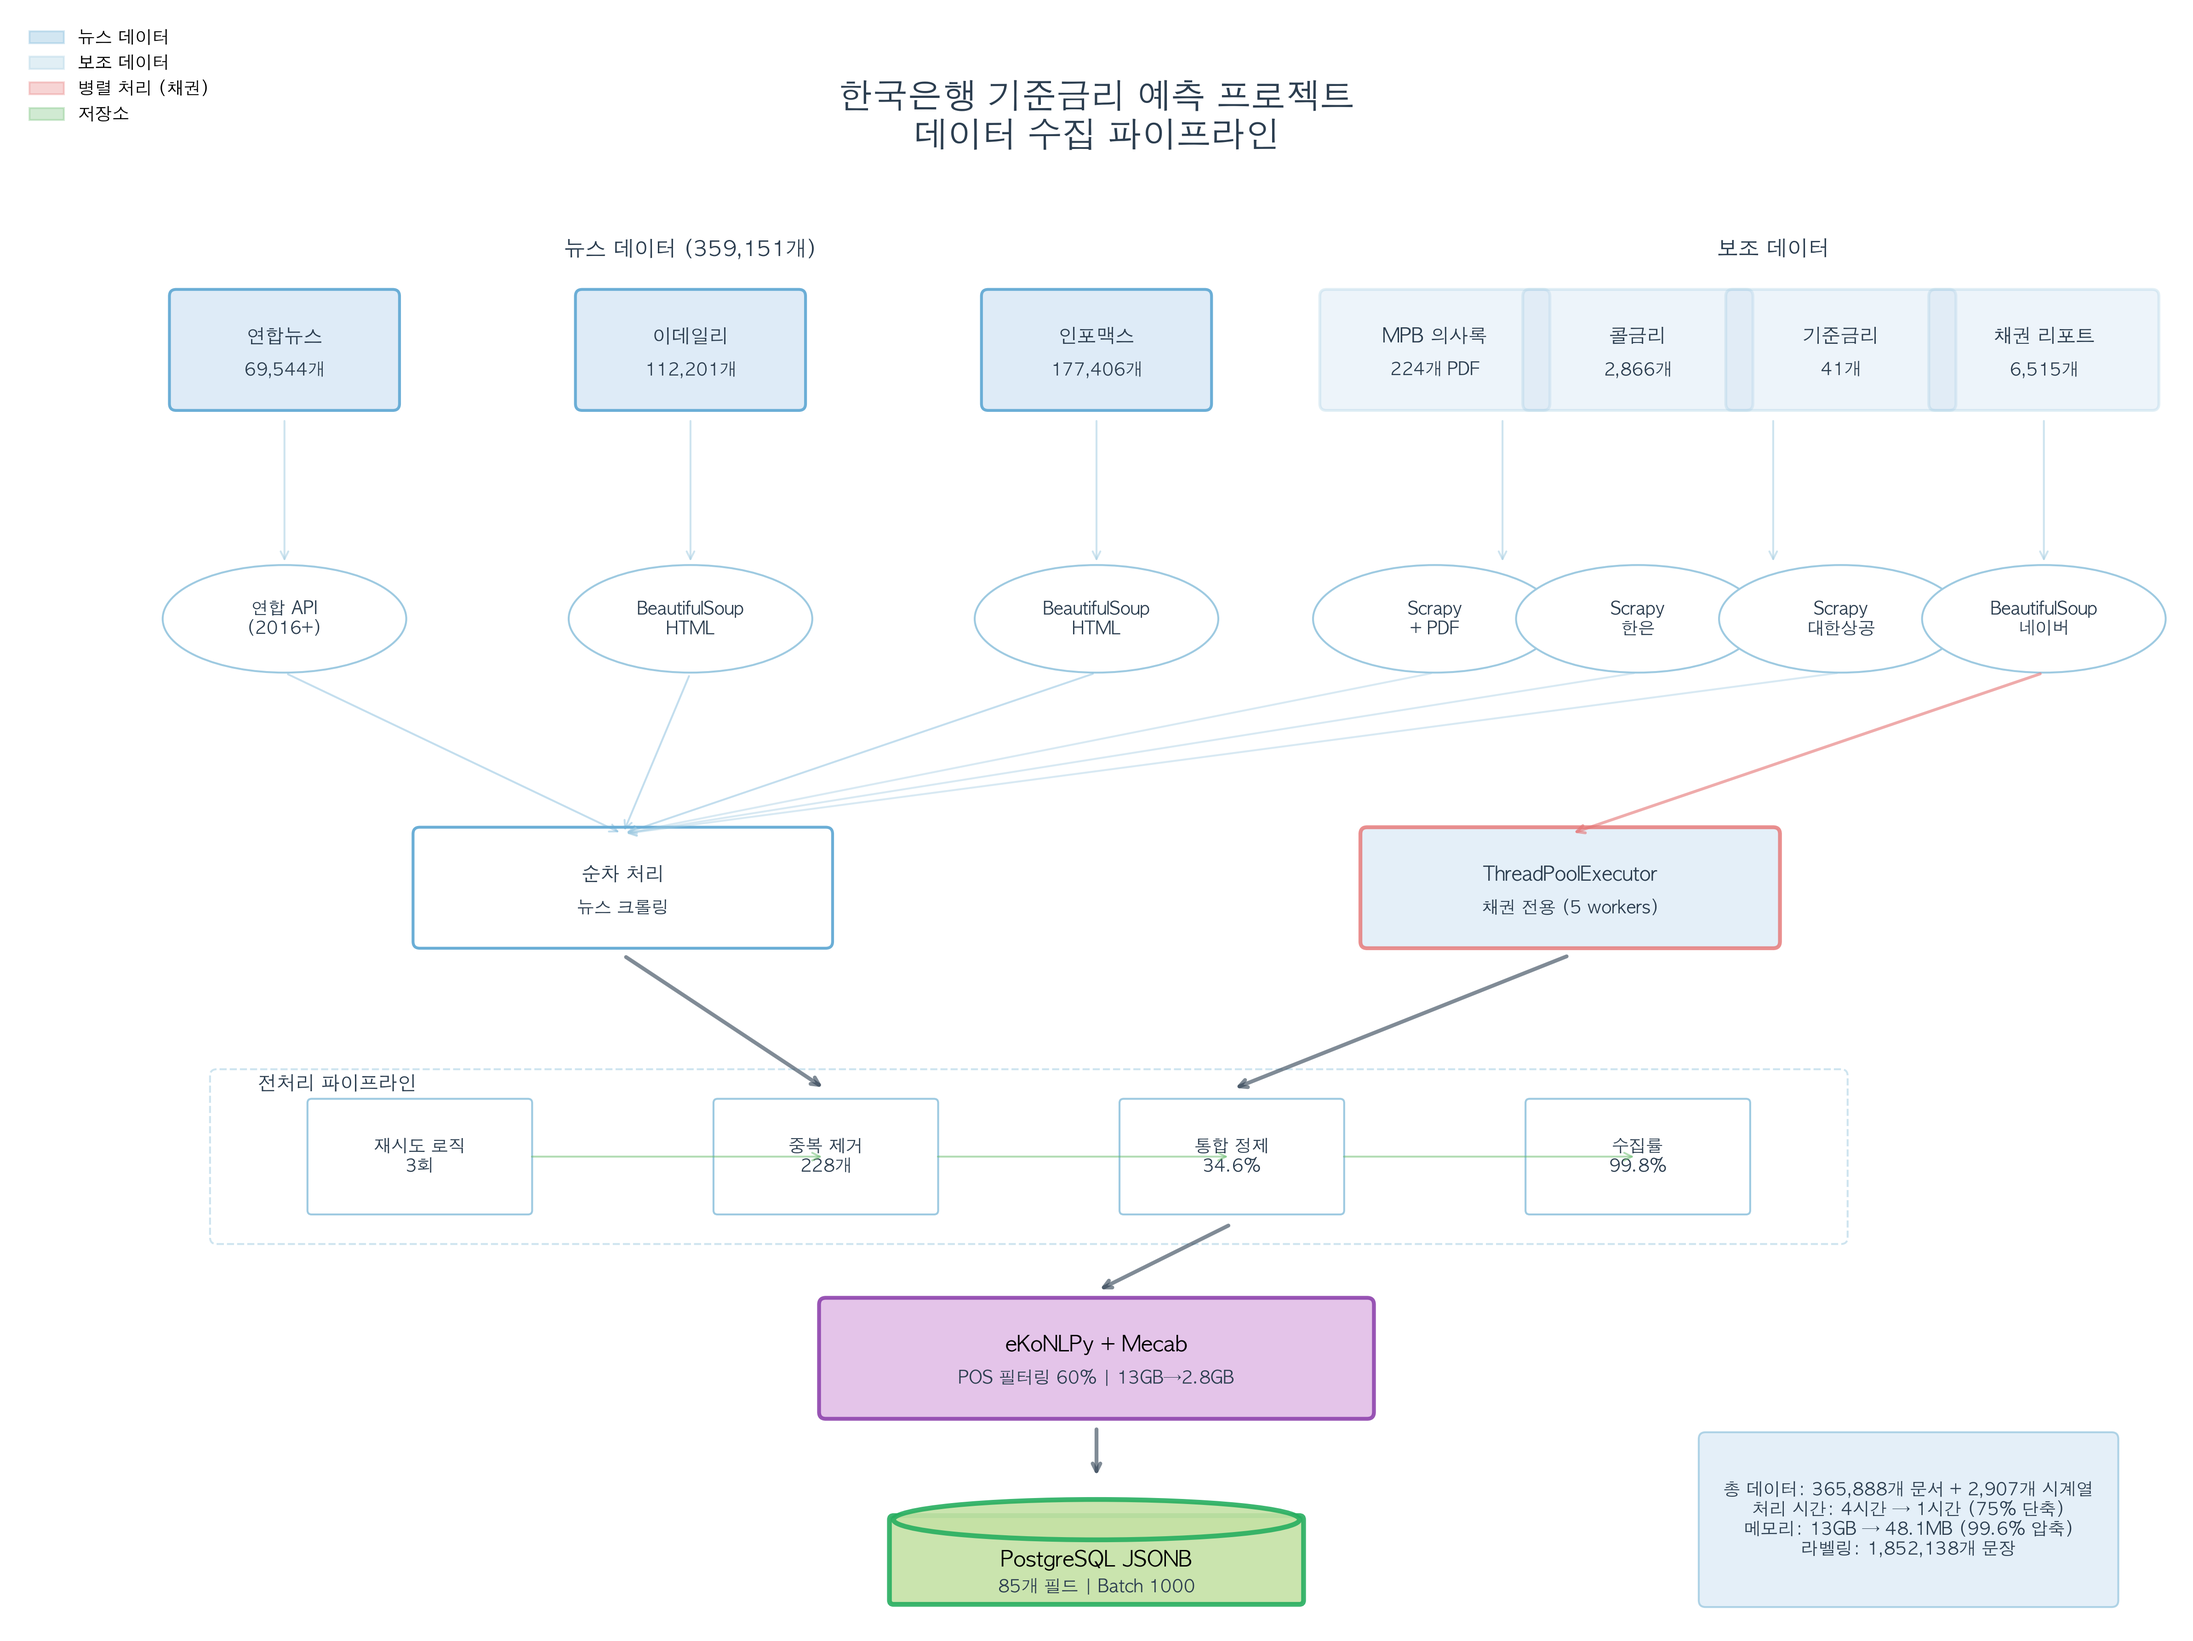
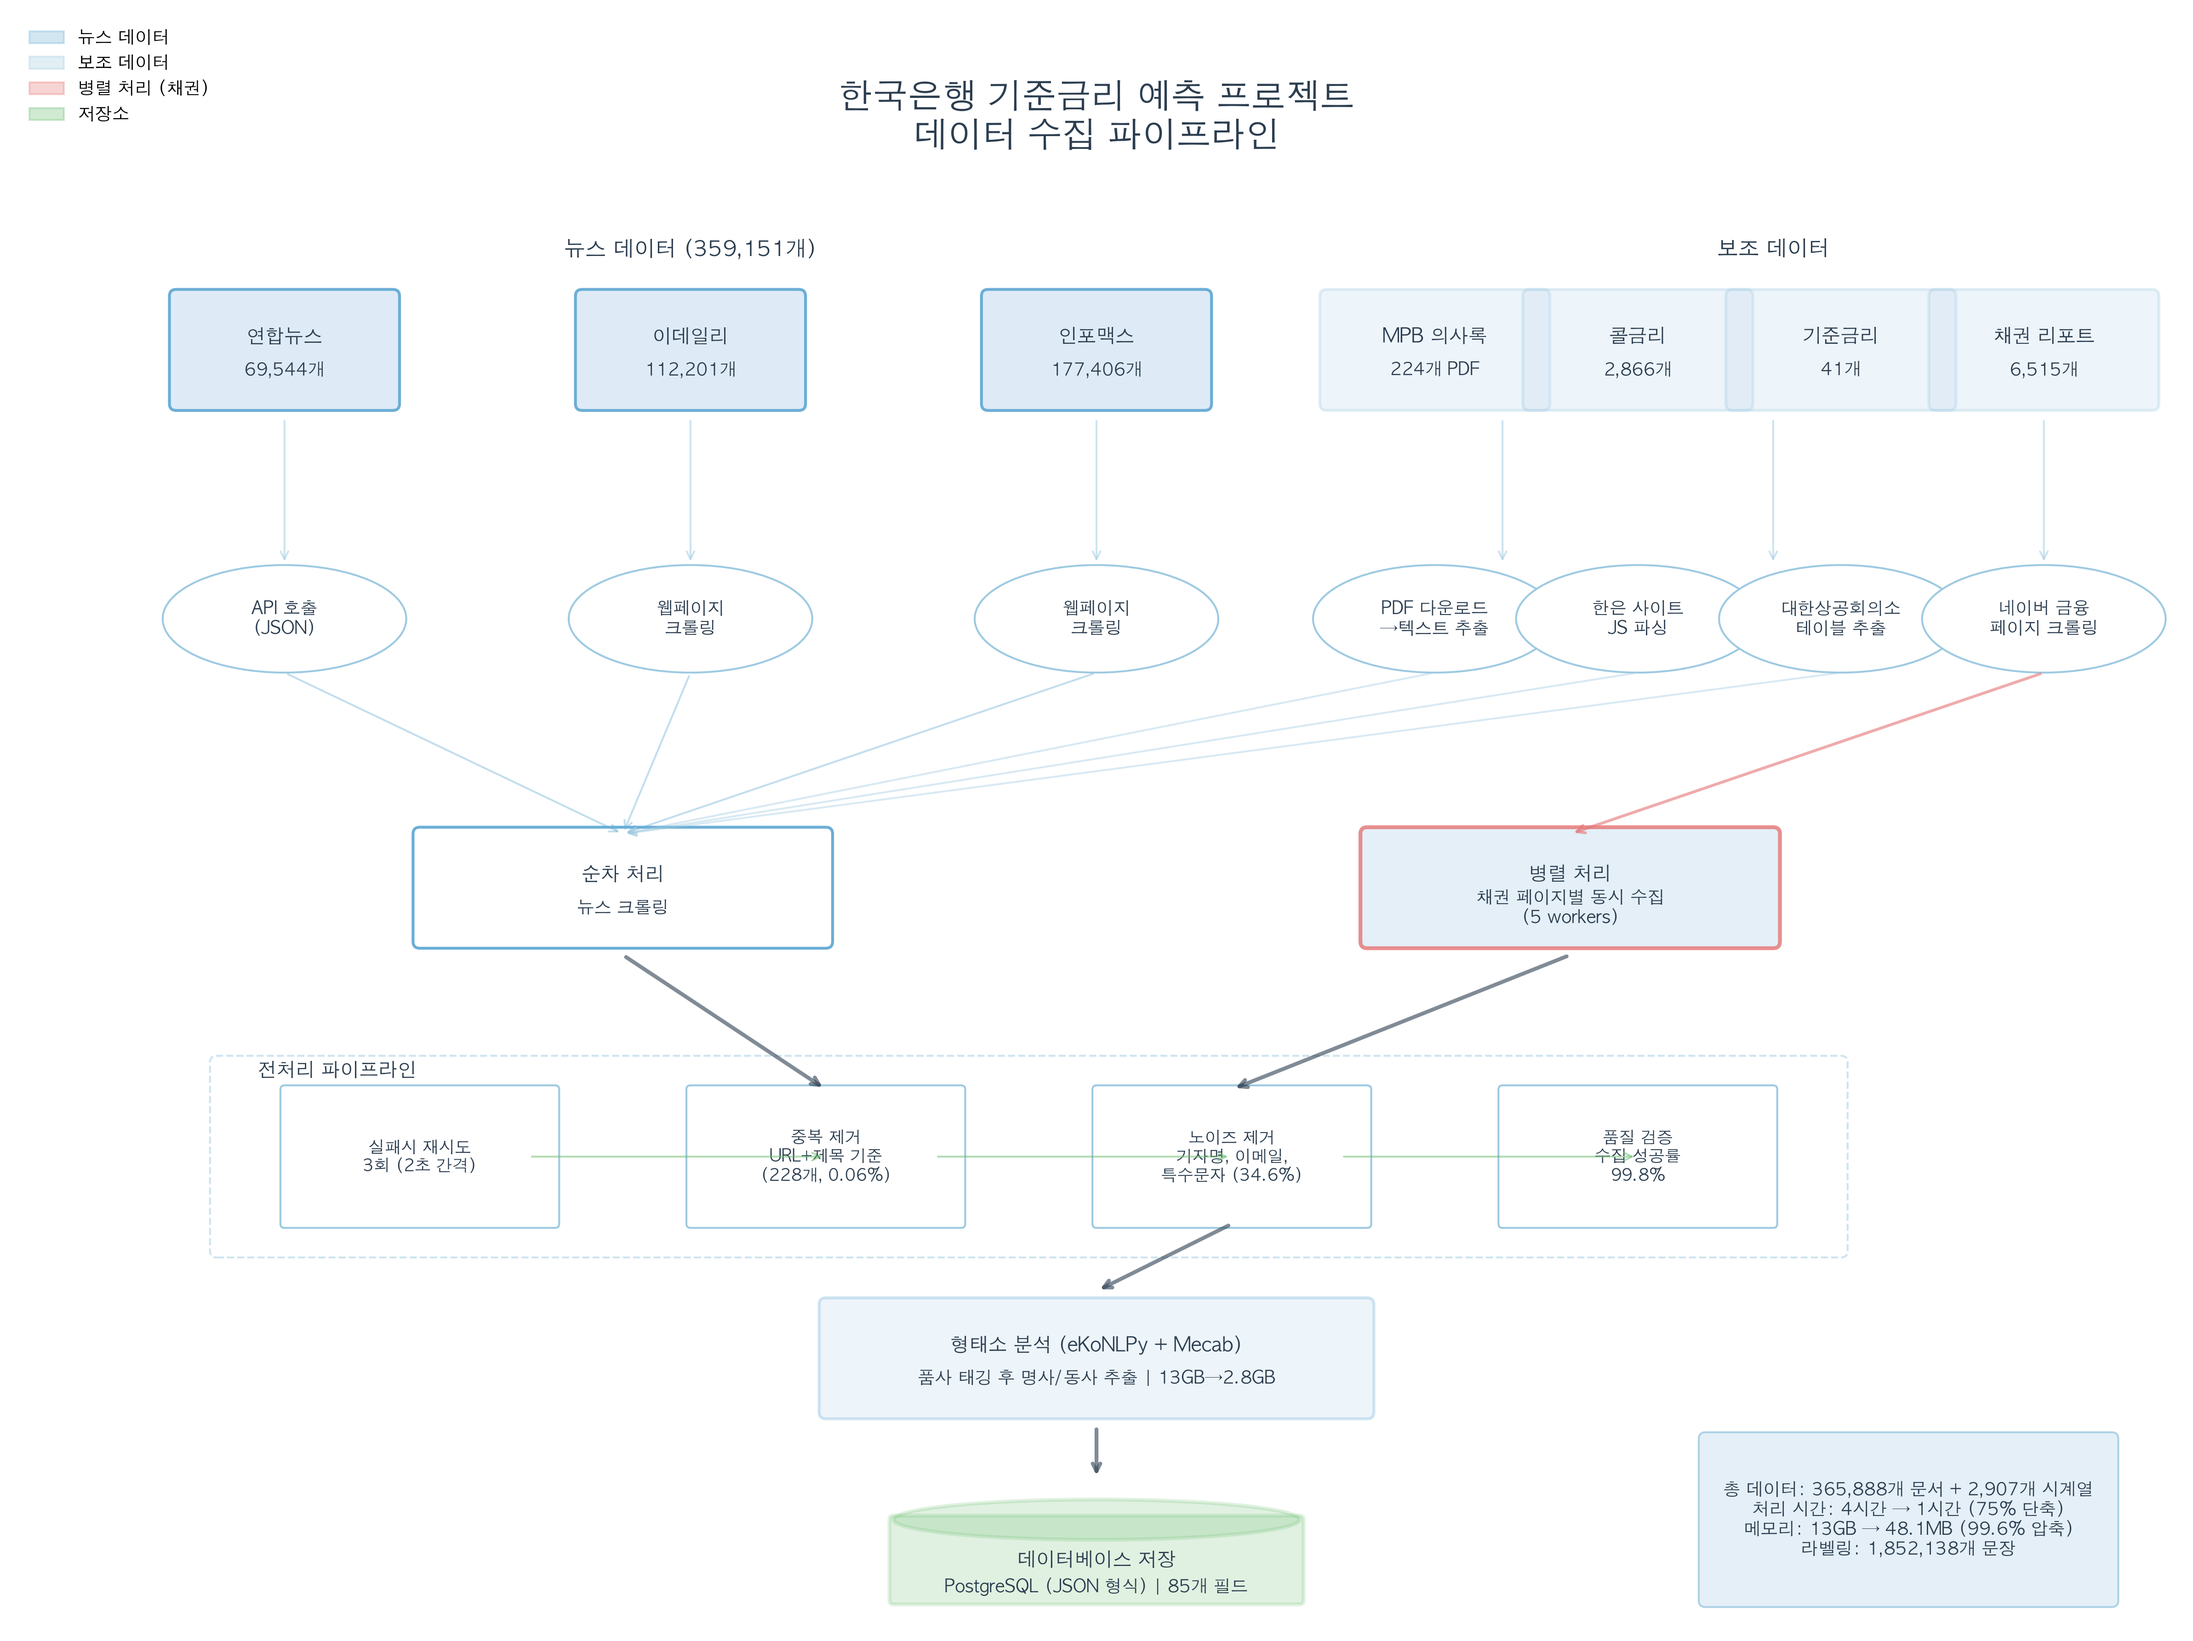
Improve diagram clarity with user-friendly descriptions
- Replaced technical terms with clear descriptions:
  - 'Scrapy+PDF' → 'PDF 다운로드→텍스트 추출'
  - 'BeautifulSoup HTML' → '웹페이지 크롤링'
  - 'Scrapy 한은' → '한은 사이트 JS 파싱'
- Enhanced preprocessing pipeline descriptions:
  - Added specific details for each step
  - Clarified what gets removed/validated
  - Included success rates and percentages
- Made database storage more understandable
- Unified color scheme throughout diagram

diff --git a/visualizations/pipeline_diagram_matplotlib.py b/visualizations/pipeline_diagram_matplotlib.py
@@ -92,13 +92,13 @@ def create_pipeline_diagram():
 
     # 수집 방법 박스
     methods = [
-        ('연합 API\n(2016+)', 2),
-        ('BeautifulSoup\nHTML', 5),
-        ('BeautifulSoup\nHTML', 8),
-        ('Scrapy\n+ PDF', 10.5),
-        ('Scrapy\n한은', 12),
-        ('Scrapy\n대한상공', 13.5),
-        ('BeautifulSoup\n네이버', 15)
+        ('API 호출\n(JSON)', 2),
+        ('웹페이지\n크롤링', 5),
+        ('웹페이지\n크롤링', 8),
+        ('PDF 다운로드\n→텍스트 추출', 10.5),
+        ('한은 사이트\nJS 파싱', 12),
+        ('대한상공회의소\n테이블 추출', 13.5),
+        ('네이버 금융\n페이지 크롤링', 15)
     ]
 
     for text, x in methods:
@@ -129,49 +129,49 @@ def create_pipeline_diagram():
                               facecolor=colors['light'], alpha=0.8,
                               edgecolor=colors['accent2'], linewidth=2)
     ax.add_patch(pool_box)
-    ax.text(11.5, y_pool+0.1, 'ThreadPoolExecutor', fontsize=10, fontweight='bold',
+    ax.text(11.5, y_pool+0.1, '병렬 처리', fontsize=10, fontweight='bold',
             ha='center', va='center', color=colors['text'])
-    ax.text(11.5, y_pool-0.15, '채권 전용 (5 workers)', fontsize=9,
+    ax.text(11.5, y_pool-0.15, '채권 페이지별 동시 수집\n(5 workers)', fontsize=9,
             ha='center', va='center', color=colors['text'])
 
     # ===== 4. 전처리 파이프라인 레이어 =====
     y_process = 3.5
 
     processes = [
-        ('재시도 로직\n3회', 3),
-        ('중복 제거\n228개', 6),
-        ('통합 정제\n34.6%', 9),
-        ('수집률\n99.8%', 12)
+        ('실패시 재시도\n3회 (2초 간격)', 3),
+        ('중복 제거\nURL+제목 기준\n(228개, 0.06%)', 6),
+        ('노이즈 제거\n기자명, 이메일,\n특수문자 (34.6%)', 9),
+        ('품질 검증\n수집 성공률\n99.8%', 12)
     ]
 
     for text, x in processes:
-        box = FancyBboxPatch((x-0.8, y_process-0.4), 1.6, 0.8,
+        box = FancyBboxPatch((x-1.0, y_process-0.5), 2.0, 1.0,
                              boxstyle='round,pad=0.03',
                              facecolor='white',
                              edgecolor=colors['border'], linewidth=1)
         ax.add_patch(box)
-        ax.text(x, y_process, text, fontsize=9, ha='center', va='center', color=colors['text'])
+        ax.text(x, y_process, text, fontsize=8.5, ha='center', va='center', color=colors['text'])
 
     # 전처리 그룹 박스
-    process_group = FancyBboxPatch((1.5, y_process-0.6), 12, 1.2,
+    process_group = FancyBboxPatch((1.5, y_process-0.7), 12, 1.4,
                                    boxstyle='round,pad=0.05',
                                    facecolor='none', edgecolor=colors['border'],
                                    linewidth=1, linestyle='--', alpha=0.5)
     ax.add_patch(process_group)
-    ax.text(1.8, y_process+0.5, '전처리 파이프라인', fontsize=10, color=colors['text'])
+    ax.text(1.8, y_process+0.6, '전처리 파이프라인', fontsize=10, color=colors['text'])
 
     # ===== 5. 토큰화 레이어 =====
     y_token = 2
 
     token_box = FancyBboxPatch((6, y_token-0.4), 4, 0.8,
                                boxstyle='round,pad=0.05',
-                               facecolor='#e1bee7', alpha=0.9,
-                               edgecolor='#8e44ad', linewidth=2)
+                               facecolor=colors['secondary'], alpha=0.3,
+                               edgecolor=colors['primary'], linewidth=1.5)
     ax.add_patch(token_box)
-    ax.text(8, y_token+0.1, 'eKoNLPy + Mecab', fontsize=11, fontweight='bold',
-            ha='center', va='center')
-    ax.text(8, y_token-0.15, 'POS 필터링 60% | 13GB→2.8GB', fontsize=9,
-            ha='center', va='center', color='#2c3e50')
+    ax.text(8, y_token+0.1, '형태소 분석 (eKoNLPy + Mecab)', fontsize=10, fontweight='bold',
+            ha='center', va='center', color=colors['text'])
+    ax.text(8, y_token-0.15, '품사 태깅 후 명사/동사 추출 | 13GB→2.8GB', fontsize=9,
+            ha='center', va='center', color=colors['text'])
 
     # ===== 6. 저장 레이어 =====
     y_db = 0.5
@@ -179,17 +179,17 @@ def create_pipeline_diagram():
     # PostgreSQL 실린더 모양
     db_rect = FancyBboxPatch((6.5, y_db-0.3), 3, 0.6,
                              boxstyle='round,pad=0.03',
-                             facecolor='#c5e1a5', edgecolor='#27ae60',
-                             linewidth=2.5, alpha=0.9)
+                             facecolor=colors['accent1'], alpha=0.2,
+                             edgecolor=colors['accent1'], linewidth=2)
     ax.add_patch(db_rect)
     db_ellipse = mpatches.Ellipse((8, y_db+0.3), width=3, height=0.3,
-                                  facecolor='#c5e1a5', edgecolor='#27ae60',
-                                  linewidth=2.5, alpha=0.9)
+                                  facecolor=colors['accent1'], alpha=0.2,
+                                  edgecolor=colors['accent1'], linewidth=2)
     ax.add_patch(db_ellipse)
-    ax.text(8, y_db, 'PostgreSQL JSONB', fontsize=11, fontweight='bold',
-            ha='center', va='center')
-    ax.text(8, y_db-0.2, '85개 필드 | Batch 1000', fontsize=9,
-            ha='center', va='center', color='#2c3e50')
+    ax.text(8, y_db, '데이터베이스 저장', fontsize=10, fontweight='bold',
+            ha='center', va='center', color=colors['text'])
+    ax.text(8, y_db-0.2, 'PostgreSQL (JSON 형식) | 85개 필드', fontsize=9,
+            ha='center', va='center', color=colors['text'])
 
     # ===== 화살표 연결 =====
     # 소스 → 수집방법
